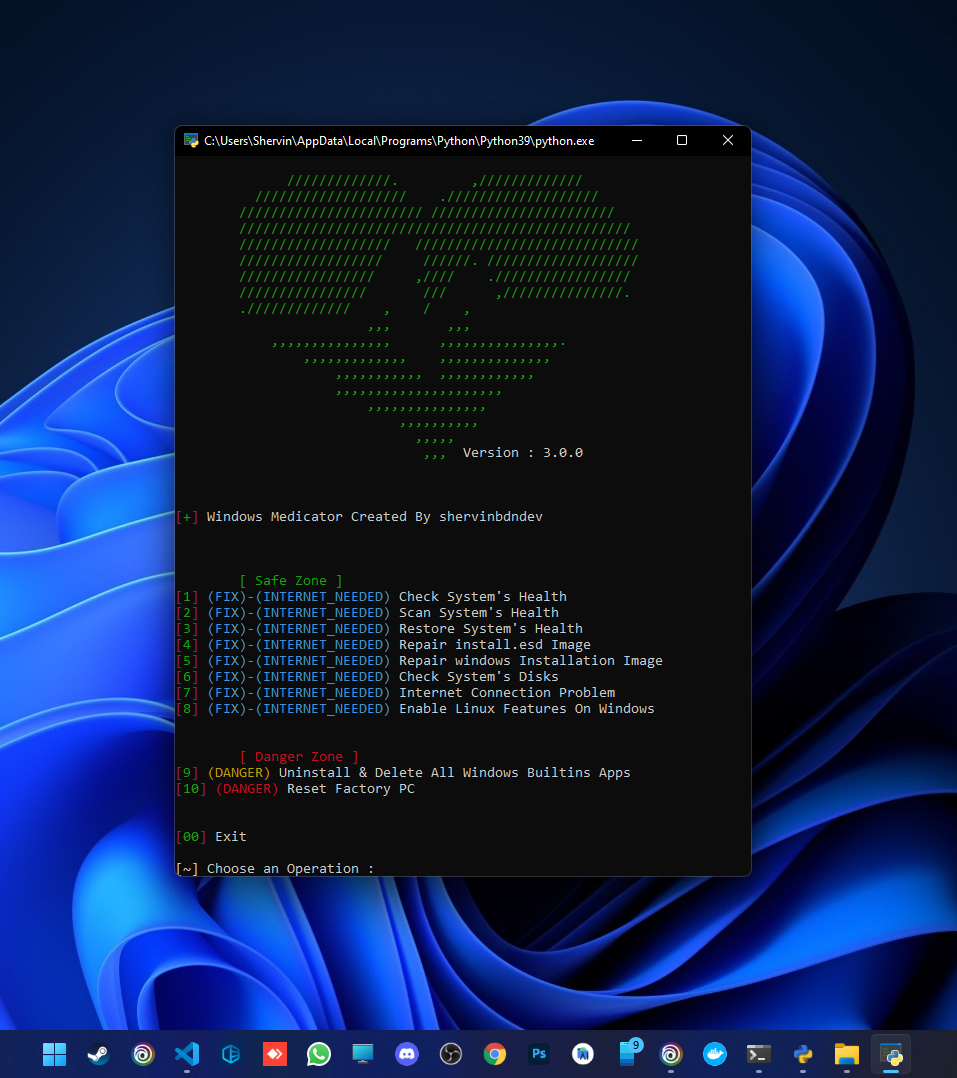
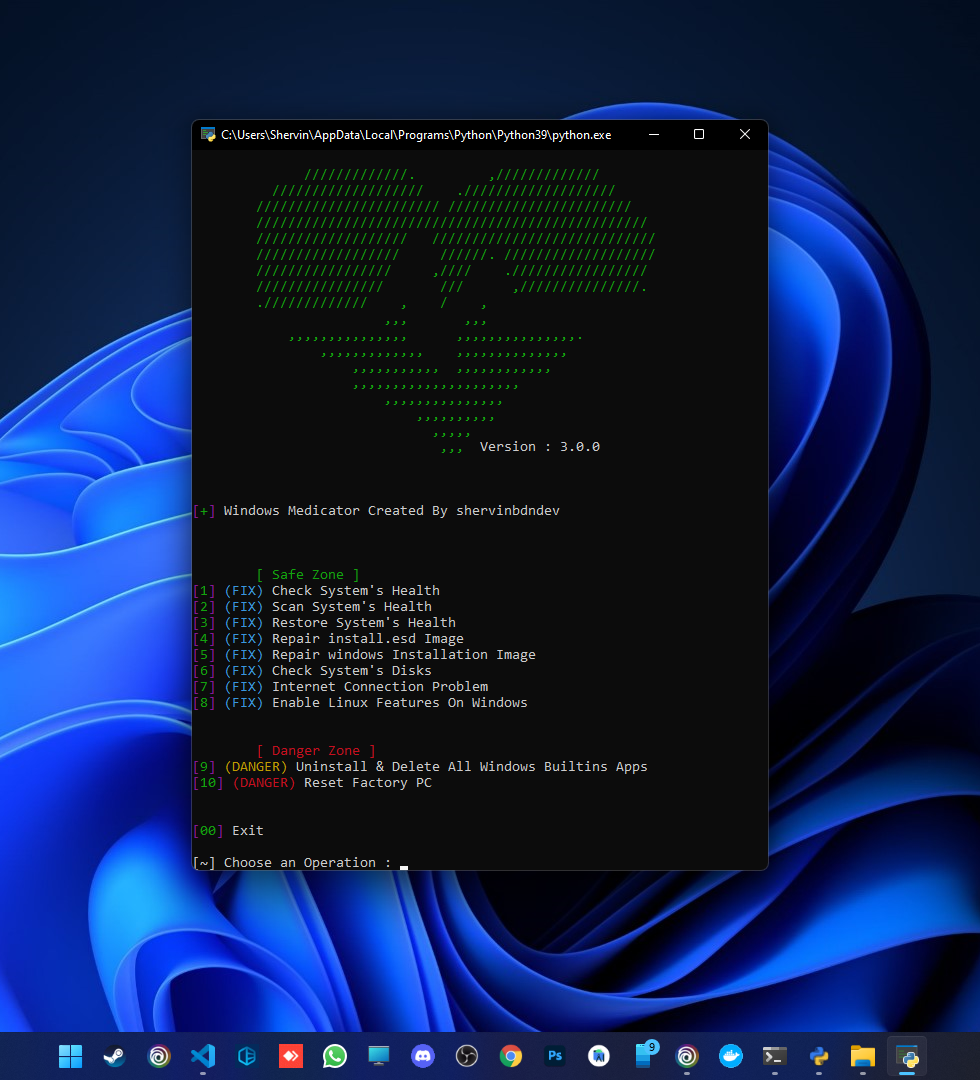
Version 3.0.0 Commited

diff --git a/src/AdminPrivileges.py b/src/AdminPrivileges.py
@@ -46,14 +46,14 @@ class ScriptHeaders:
         print(f"{ASCII}\n")
         print(f"{Fore.MAGENTA}[{Fore.GREEN}+{Fore.MAGENTA}] {Fore.WHITE}Windows Medicator Created By shervinbdndev\n\n\n")
         print(f"\t{Fore.GREEN}[ Safe Zone ]")
-        print(f"{Fore.MAGENTA}[{Fore.GREEN}1{Fore.MAGENTA}] {Fore.CYAN}(FIX)-(INTERNET_NEEDED) {Fore.WHITE}Check System's Health")
-        print(f"{Fore.MAGENTA}[{Fore.GREEN}2{Fore.MAGENTA}] {Fore.CYAN}(FIX)-(INTERNET_NEEDED) {Fore.WHITE}Scan System's Health")
-        print(f"{Fore.MAGENTA}[{Fore.GREEN}3{Fore.MAGENTA}] {Fore.CYAN}(FIX)-(INTERNET_NEEDED) {Fore.WHITE}Restore System's Health")
-        print(f"{Fore.MAGENTA}[{Fore.GREEN}4{Fore.MAGENTA}] {Fore.CYAN}(FIX)-(INTERNET_NEEDED) {Fore.WHITE}Repair install.esd Image")
-        print(f"{Fore.MAGENTA}[{Fore.GREEN}5{Fore.MAGENTA}] {Fore.CYAN}(FIX)-(INTERNET_NEEDED) {Fore.WHITE}Repair windows Installation Image")
-        print(f"{Fore.MAGENTA}[{Fore.GREEN}6{Fore.MAGENTA}] {Fore.CYAN}(FIX)-(INTERNET_NEEDED) {Fore.WHITE}Check System's Disks")
-        print(f"{Fore.MAGENTA}[{Fore.GREEN}7{Fore.MAGENTA}] {Fore.CYAN}(FIX)-(INTERNET_NEEDED) {Fore.WHITE}Internet Connection Problem")
-        print(f"{Fore.MAGENTA}[{Fore.GREEN}8{Fore.MAGENTA}] {Fore.CYAN}(FIX)-(INTERNET_NEEDED) {Fore.WHITE}Enable Linux Features On Windows\n\n")
+        print(f"{Fore.MAGENTA}[{Fore.GREEN}1{Fore.MAGENTA}] {Fore.CYAN}(FIX) {Fore.WHITE}Check System's Health")
+        print(f"{Fore.MAGENTA}[{Fore.GREEN}2{Fore.MAGENTA}] {Fore.CYAN}(FIX) {Fore.WHITE}Scan System's Health")
+        print(f"{Fore.MAGENTA}[{Fore.GREEN}3{Fore.MAGENTA}] {Fore.CYAN}(FIX) {Fore.WHITE}Restore System's Health")
+        print(f"{Fore.MAGENTA}[{Fore.GREEN}4{Fore.MAGENTA}] {Fore.CYAN}(FIX) {Fore.WHITE}Repair install.esd Image")
+        print(f"{Fore.MAGENTA}[{Fore.GREEN}5{Fore.MAGENTA}] {Fore.CYAN}(FIX) {Fore.WHITE}Repair windows Installation Image")
+        print(f"{Fore.MAGENTA}[{Fore.GREEN}6{Fore.MAGENTA}] {Fore.CYAN}(FIX) {Fore.WHITE}Check System's Disks")
+        print(f"{Fore.MAGENTA}[{Fore.GREEN}7{Fore.MAGENTA}] {Fore.CYAN}(FIX) {Fore.WHITE}Internet Connection Problem")
+        print(f"{Fore.MAGENTA}[{Fore.GREEN}8{Fore.MAGENTA}] {Fore.CYAN}(FIX) {Fore.WHITE}Enable Linux Features On Windows\n\n")
         print(f"\t{Fore.RED}[ Danger Zone ]")
         print(f"{Fore.MAGENTA}[{Fore.GREEN}9{Fore.MAGENTA}] {Fore.YELLOW}(DANGER) {Fore.WHITE}Uninstall & Delete All Windows Builtins Apps")
         print(f"{Fore.MAGENTA}[{Fore.GREEN}10{Fore.MAGENTA}] {Fore.RED}(DANGER) {Fore.WHITE}Reset Factory PC\n\n")
